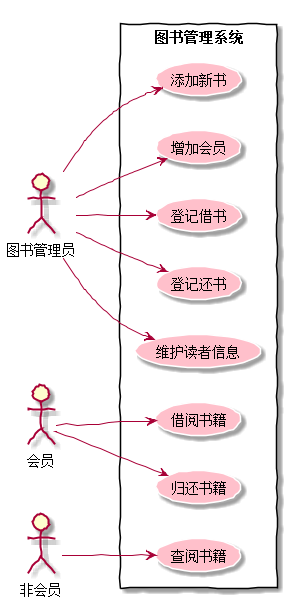
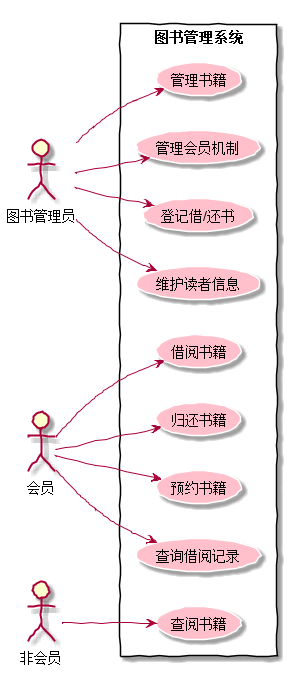
第二次作业

diff --git a/test2/README.md b/test2/README.md
@@ -19,13 +19,14 @@ skinparam usecase{
 会员 as vip
 非会员 as nvip
 rectangle 图书管理系统{
-    admin --> (添加新书)
-    admin --> (增加会员)
-    admin --> (登记借书)
-    admin --> (登记还书)
+    admin --> (管理书籍)
+    admin --> (管理会员机制)
+    admin --> (登记借/还书)
     admin --> (维护读者信息)
     vip --> (借阅书籍)
     vip --> (归还书籍)
+    vip --> (预约书籍)
+    vip --> (查询借阅记录)
     nvip --> (查阅书籍)
 }
 @enduml
@@ -94,7 +95,7 @@ stop
 ###     3.2 “归还图书”用例
 
 ####    3.2.1 “归还图书”用例规约表
-|用例名称|借阅图书|
+|用例名称|归还图书|
 |:----------:|:---------:|
 |参与者|会员|
 |前置条件|登录系统|
@@ -120,3 +121,69 @@ stop
    ```
 ####    3.2.3 "归还图书"用例流程图如下:
 ![](returnBook.png)
+###    3.3 "预约图书"用例
+####   3.3.1 “预约图书”用例规约表:
+|用例名称|预约图书|
+|:----------:|:---------:|
+|参与者|会员|
+|前置条件|登录系统|
+|后置条件|预约成功|
+|主事件流|①找图书管理员登记|
+|备选事件流|①预约失败|
+|业务规则|图书管理员工作时间是朝九晚五|
+####   3.3.2 “预约图书”用例流程图源码如下：
+```@startuml
+   |会员|
+   start
+   
+   :查询书籍;
+   |会员|
+   |图书管理系统|
+   if(书籍是否存在) then (存在)
+   if(是否已被借出) then (否)
+   :预约成功,并登记预约记录;
+   else (是)
+   :预约失败;
+   endif
+   else (不存在)
+   :预约失败;
+   endif
+   |图书管理系统|
+   |会员|
+   :预约结束;
+   stop
+   @enduml
+   ```
+####   3.3.3 "预约图书"用例流程图如下:
+![](orderBook.png)
+###    3.3 "管理图书"用例
+####   3.3.1 “管理图书”用例规约表:
+|用例名称|管理图书|
+|:----------:|:---------:|
+|参与者|会员|
+|前置条件|登录系统|
+|后置条件|CRUD成功|
+|主事件流|①找图书管理员登记|
+|备选事件流|①CRUD失败,询求超级管理员帮助|
+|业务规则|图书管理员工作时间是朝九晚五|
+####   3.3.2 “管理图书”用例流程图源码如下：
+```@startuml
+   :图书管理;
+   fork
+   :新增书籍;
+   :刷新书籍记录;
+   fork again
+   :删除书籍;
+   :刷新书籍记录;
+   fork again
+   :查询书籍;
+   :查询结果;
+   fork again
+   :修改书籍;
+   :刷新书籍记录;
+   end fork
+   :管理结束;
+   @enduml
+   ```
+####   3.3.3 "管理图书"用例流程图如下:
+![](bookManage.png)
